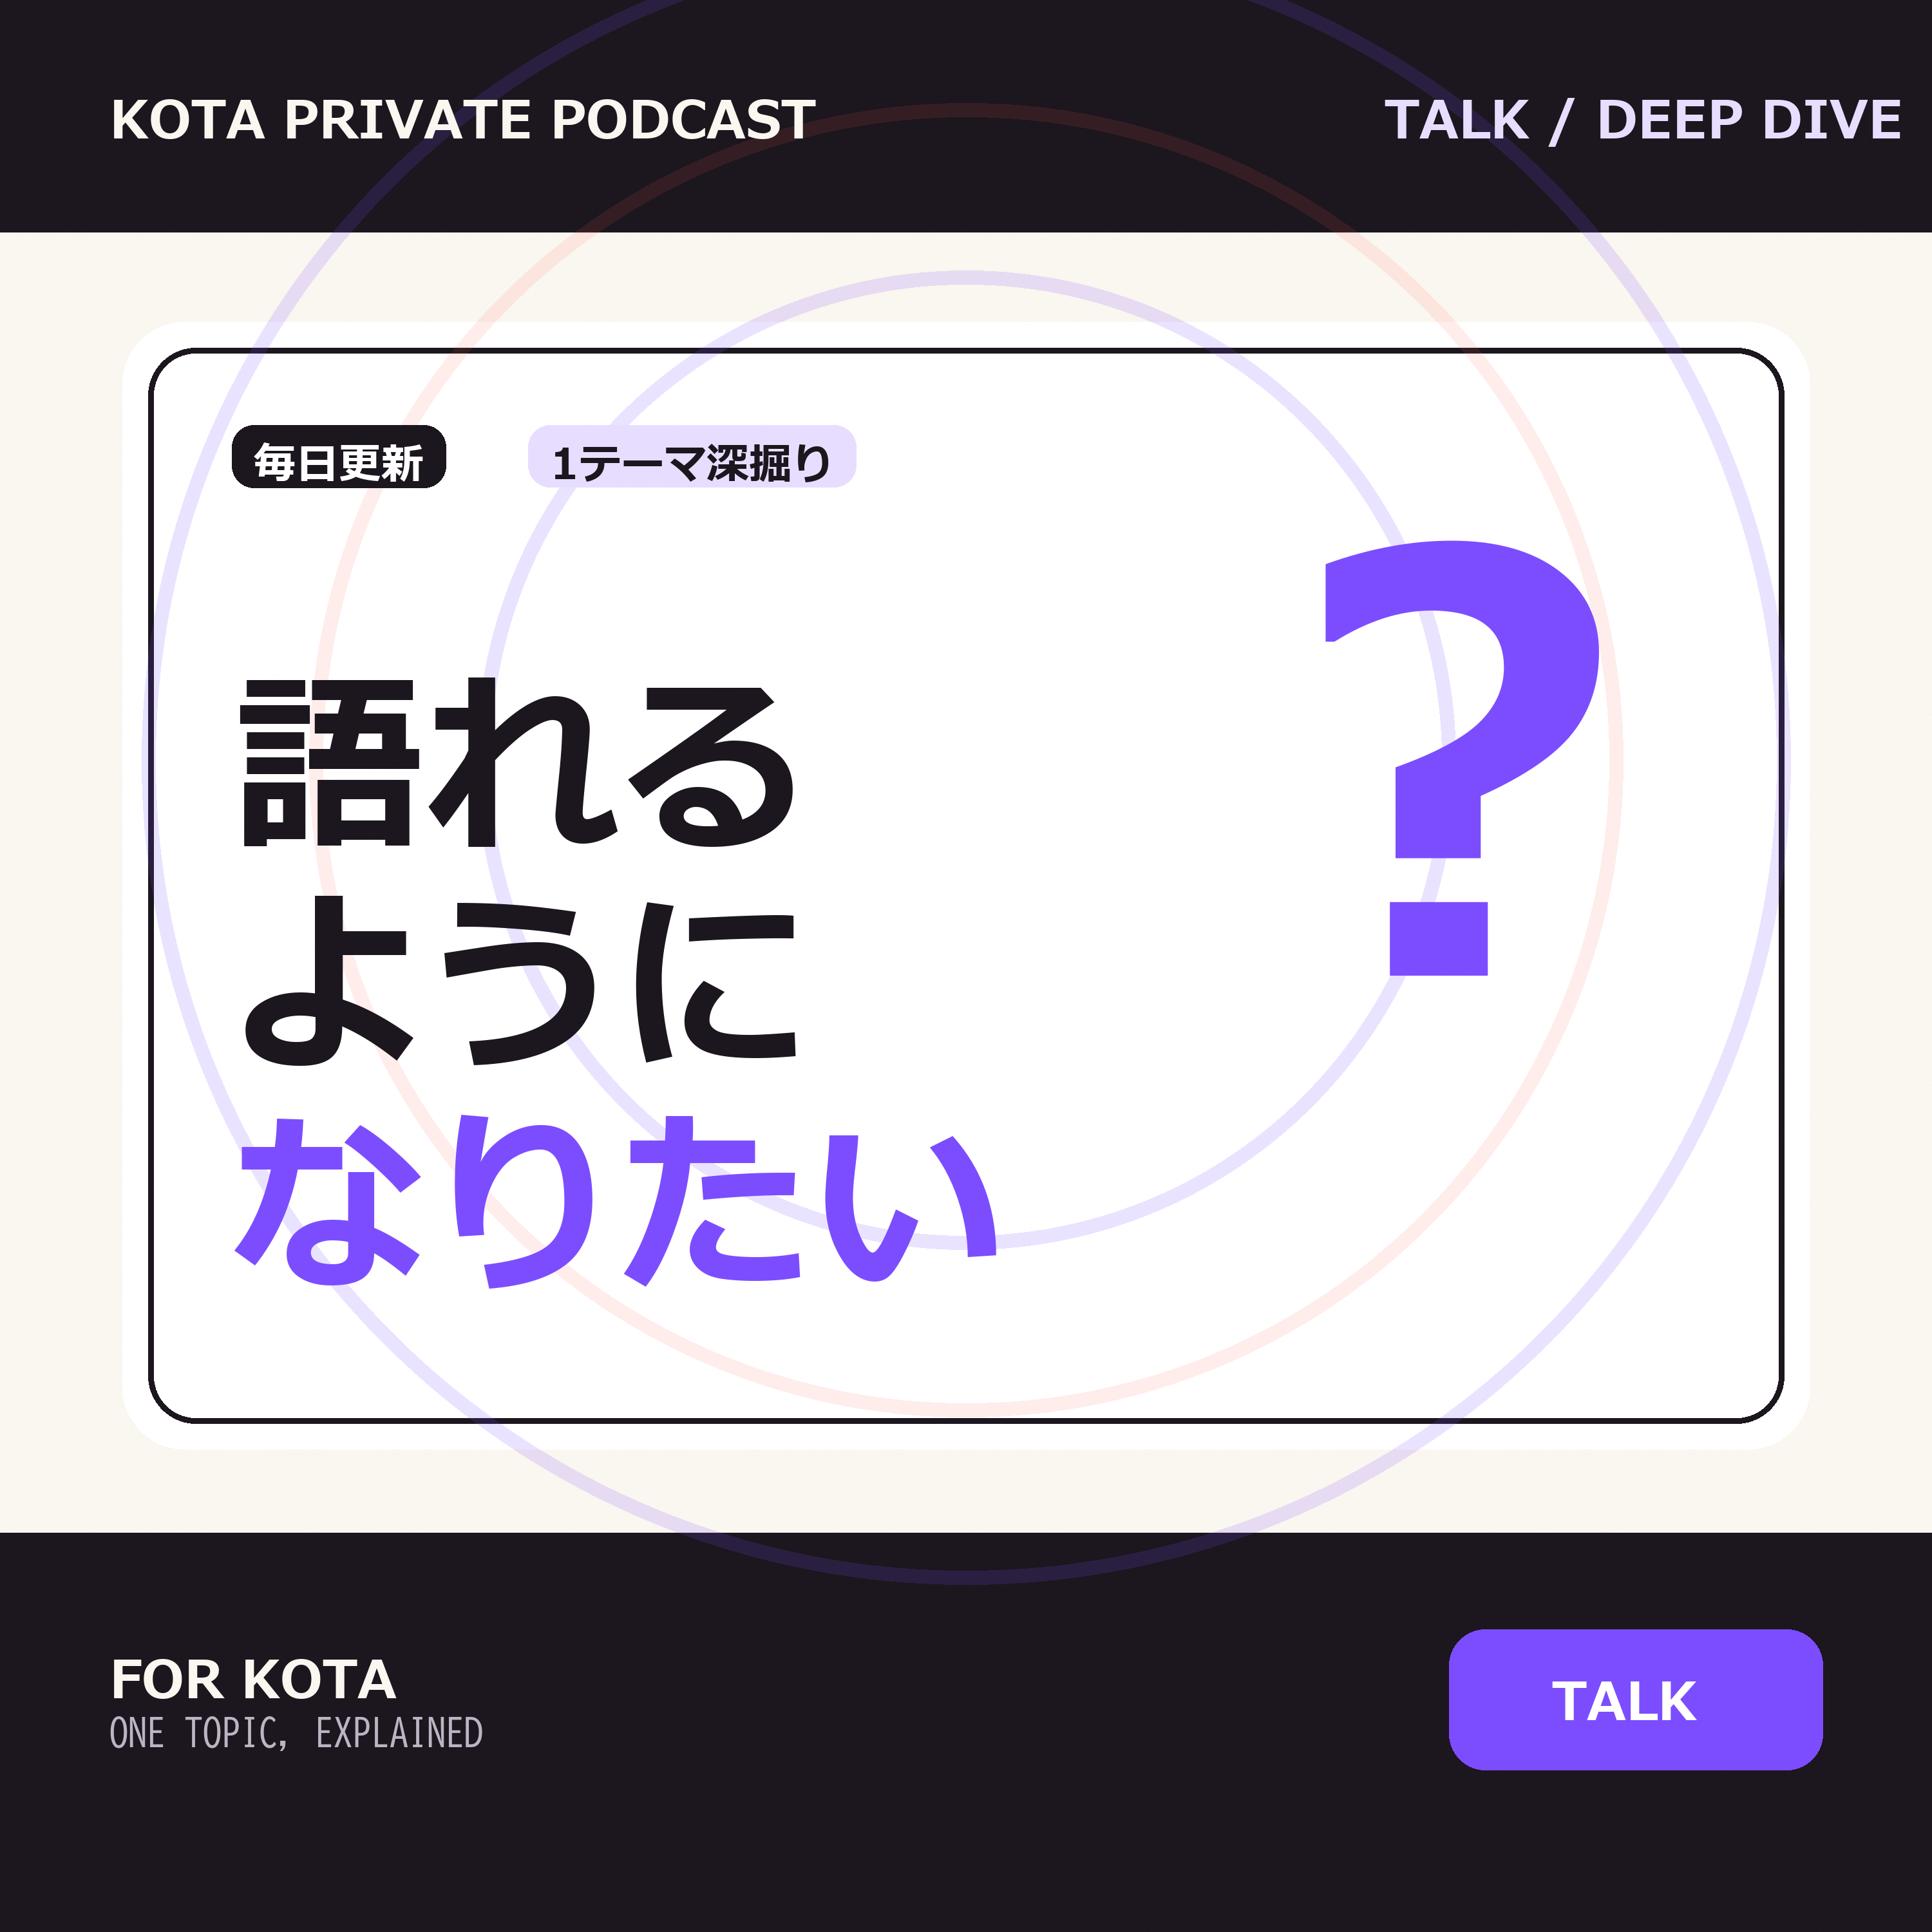
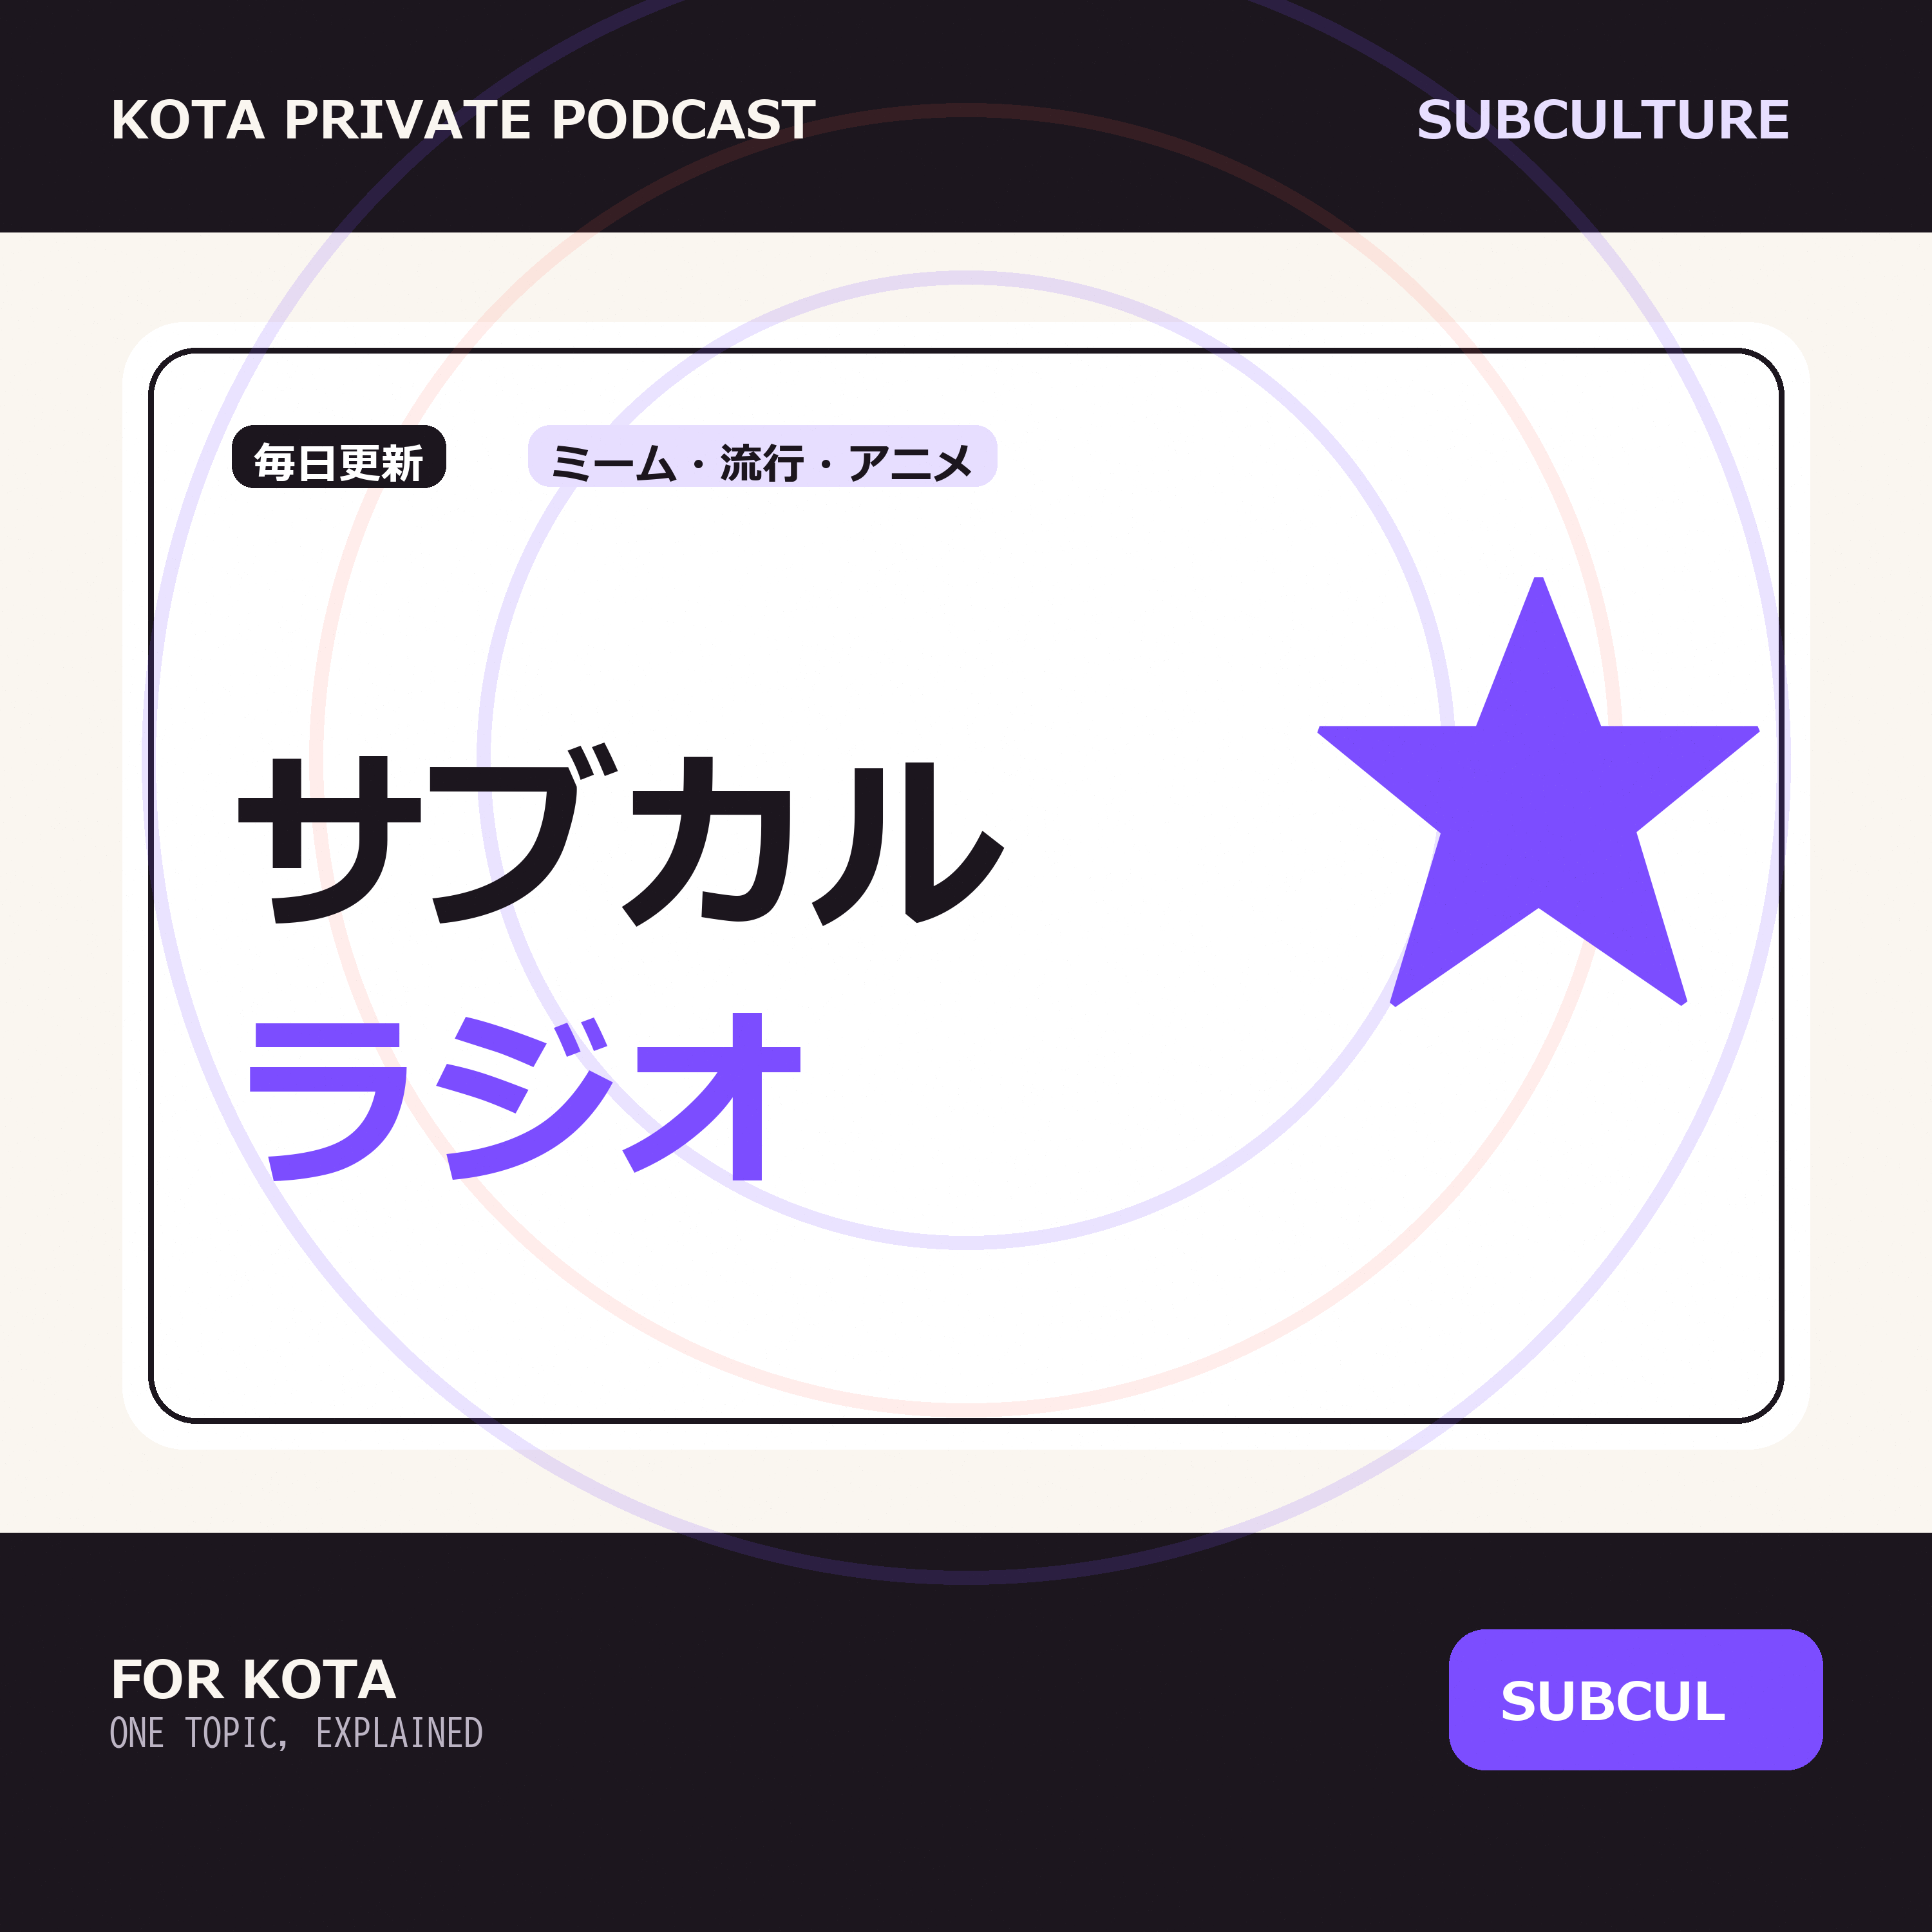
改名: 語れるラジオ→サブカルラジオ(カバー★)、鑑賞ふりかえり→鑑賞作品ラジオ。両カバー・ルーチン・publish.py設定更新、今日の回(ペンギンミーム/ヴァイオレット)を新名で再配信

diff --git a/scripts/make_cover.py b/scripts/make_cover.py
@@ -178,22 +178,21 @@ def make_katareru_cover():
     f_mono = load_font(58, bold=False)
 
     d.text((170, 128), "KOTA PRIVATE PODCAST", font=f_label, fill=(250, 246, 240, 255))
-    d.text((2150, 128), "TALK / DEEP DIVE", font=f_label, fill=pale_purple)
+    d.text((2200, 128), "SUBCULTURE", font=f_label, fill=pale_purple)
 
-    # 巨大な「?」を右上に
-    d.text((2000, 560), "?", font=f_q, fill=(124, 77, 255, 90))
+    # 巨大な「★」を右上に（サブカル＝ポップな星モチーフ。旧「?」は語れる時代の名残で違和感ありと kota 指摘 2026-06-19）
+    d.text((1940, 600), "★", font=f_q, fill=(124, 77, 255, 90))
 
     draw_tag(d, (360, 660), "毎日更新", f_tag, ink, (255, 255, 255, 255))
-    draw_tag(d, (820, 660), "1テーマ深掘り", f_tag, pale_purple, ink)
+    draw_tag(d, (820, 660), "ミーム・流行・アニメ", f_tag, pale_purple, ink)
 
-    d.text((360, 980), "語れる", font=f_title, fill=ink)
-    d.text((360, 1320), "ように", font=f_title, fill=ink)
-    d.text((360, 1660), "なりたい", font=f_title, fill=purple)
+    d.text((360, 1100), "サブカル", font=f_title, fill=ink)
+    d.text((360, 1500), "ラジオ", font=f_title, fill=purple)
 
     d.text((170, 2550), "FOR KOTA", font=f_label, fill=(250, 246, 240, 255))
     d.text((170, 2660), "ONE TOPIC, EXPLAINED", font=f_mono, fill=(188, 180, 196, 255))
     d.rounded_rectangle([2250, 2530, 2830, 2748], radius=56, fill=purple)
-    d.text((2410, 2584), "TALK", font=f_label, fill=(255, 255, 255, 255))
+    d.text((2330, 2584), "SUBCUL", font=f_label, fill=(255, 255, 255, 255))
 
     img = add_noise(img)
     img = img.convert("RGB")
@@ -211,8 +210,8 @@ GENERIC_COVERS = {
                  ["ビジネス", "ラジオ", ""], "企業と商品", "BUSINESS", "ONE TOPIC A DAY"),
     "chiri": ("chiri-cover.png", (34, 168, 120), "地",
               ["地理", "ラジオ", ""], "街と世界", "GEOGRAPHY", "PLACES & COUNTRIES"),
-    "kanshou": ("kanshou-cover.png", (228, 72, 140), "観",
-                ["鑑賞", "ふり", "かえり"], "Notion連動", "REVIEW", "FROM YOUR LOG"),
+    "kanshou": ("kanshou-cover.png", (228, 72, 140), "鑑",
+                ["鑑賞", "作品", "ラジオ"], "本・映画・アニメ", "REVIEW", "FROM YOUR LOG"),
     "fukushi": ("fukushi-cover.png", (40, 140, 220), "福",
                 ["福祉", "ラジオ", ""], "落穂会支援", "WELFARE", "STUDY TRACK"),
 }

diff --git a/scripts/publish.py b/scripts/publish.py
@@ -46,10 +46,10 @@ SHOWS = {
         "meta": "_meta_katareru.json",
         "cover": "katareru-cover.png",
         "hour": 6,
-        "channel_title": "kota 語れるラジオ",
-        "channel_desc": "毎日1本、いま話題だけど実はよく知らない単語・人物・現象を1つ選び、他人に語れるレベルまで深掘りして解説する、kota専用の音声番組。",
+        "channel_title": "kota サブカルラジオ",
+        "channel_desc": "毎日1本、ネットのミーム・流行・アニメ・ゲーム・キャラなど、いま話題のサブカルチャーを1つ選び、他人に語れるレベルまで深掘りして解説する、kota専用の音声番組。",
         "category": "Society & Culture",
-        "default_title": "「{date}のテーマ」について語れるようになりたい",
+        "default_title": "サブカルラジオ（{date}）",
     },
     "lifehack": {
         "ep_subdir": "lifehack/episodes",
@@ -94,10 +94,10 @@ SHOWS = {
         "meta": "_meta_kanshou.json",
         "cover": "kanshou-cover.png",
         "hour": 8,
-        "channel_title": "kota 鑑賞ふりかえりラジオ",
-        "channel_desc": "毎日1本、kota がNotionに記録した鑑賞作品（本・映画・ドラマ・音楽ほか）を1つ取り上げ、背景や見どころを語れるレベルまで深掘りする、kota専用の音声番組。",
+        "channel_title": "kota 鑑賞作品ラジオ",
+        "channel_desc": "毎日1本、kota がNotionに記録した鑑賞作品（本・映画・ドラマ・アニメ・音楽ほか）を1つ取り上げ、背景や見どころを語れるレベルまで深掘りする、kota専用の音声番組。",
         "category": "Arts",
-        "default_title": "鑑賞ふりかえり（{date}）",
+        "default_title": "鑑賞作品ラジオ（{date}）",
     },
     "fukushi": {
         "ep_subdir": "fukushi/episodes",

diff --git a/KATARERU_ROUTINE.md b/KATARERU_ROUTINE.md
@@ -1,7 +1,8 @@
-# 語れるラジオ — 毎日の生成ルーチン
+# サブカルラジオ — 毎日の生成ルーチン
 
-> このファイルは毎朝（5:15頃。全番組を6時までに仕上げる方針）の scheduled-task（`katareru-radio`）が読んで **そのまま実行する** 手順書。
-> 目的：いま話題だけど「実はよくわからない」単語・人物・現象を **1つ** 選び、他人に語れるレベルまで深掘りして、約6〜8分の音声（mp3）にして Podcast 配信する。
+> このファイルは毎朝（5:10頃。全番組を6時までに仕上げる方針）の scheduled-task（`katareru-radio`）が読んで **そのまま実行する** 手順書。SHOW=katareru（旧「語れるラジオ」。2026-06-19 に kota 指示で「サブカルラジオ」へ改名。フィードIDは購読維持のため katareru のまま）。
+> 目的：いま話題の **サブカルチャー**（ネットのミーム・流行・アニメ・漫画・ゲーム・VTuber・キャラ・ネット文化・新しい商品やブームなど）を **1つ** 選び、他人に語れるレベルまで深掘りして、約9〜11分の音声（mp3）にして Podcast 配信する。
+> ※扱うのは**サブカル寄りの話題**に絞る（経済概念・国際情勢・お堅いビジネス用語などは扱わない。それらはビジネスラジオの領分）。「名前は聞くけど中身を説明できる人が少ない」サブカル現象が主役。
 > 作業ディレクトリ：`C:\Users\kota\Documents\Claude\kota-news-podcast`
 > 番組ID：`katareru`（朝の深掘りニュースとは **別フィード**。配信フィードはリポジトリ直下 `katareru.xml`。音声は `katareru/episodes/`）
 
@@ -25,12 +26,12 @@
 
 WebSearch を複数本投げ、「**話題には上がってるけど、実はよくわからない単語・人物・現象**」の候補を10〜15個リストアップする。例：「もっちゅりん」のような、SNS・ニュース・街中で見聞きするが中身を説明できる人が少ないもの。
 
-カバーする領域（ジャンルは絞らない）：
-- SNS・ネットでバズってる単語／ミーム／キャラ／VTuber／コンテンツ
-- 日本のエンタメ・カルチャー（音楽・映画・お笑い・アニメ・ゲーム）
-- テック・AI の新語・サービス・人物
-- 経済・金融・国際情勢で「名前は聞くが説明できない」概念
-- 社会現象・流行・新しい商品やブランド
+カバーする領域（**サブカル寄りに絞る**）：
+- SNS・ネットでバズってる単語／ミーム／キャラ／VTuber／配信者／コンテンツ
+- 日本のエンタメ・カルチャー（アニメ・漫画・ゲーム・音楽・映画・お笑い・特撮・アイドル）
+- ネット文化・スラング・流行りの遊び・バズった現象
+- 新しい商品・ブーム・サブカル的な流行（食・グッズ・キャラビジネス等）
+- ※テック/AIの専門用語・経済/金融/国際情勢などお堅い概念は扱わない（ビジネスラジオの領分）。サブカルとして語れるものを優先。
 
 選定の必須条件（article_playbook より）：
 - **「話題には上がってる」が必須**。誰も話題にしてないマイナー単語は弾く（＝Wikipedia の領分）。
@@ -122,7 +123,7 @@ article_playbook §1 の構成テンプレを **音声向けに適応**する：
 ## STEP 7. テキスト整形＋読み正規化
 
 台本を1つのテキストにまとめる。冒頭・結びの定型：
-- オープニング：「こんにちは。語れるラジオ、今日のテーマは『○○』です。」
+- オープニング：「こんにちは。サブカルラジオ、今日のテーマは『○○』です。」
 - クロージング：「以上、今日の『○○』でした。これで明日、ちょっと語れますね。」
 
 読み正規化（ROUTINE.md STEP 7 と同じ規律）：

diff --git a/KANSHOU_ROUTINE.md b/KANSHOU_ROUTINE.md
@@ -1,7 +1,7 @@
-# 鑑賞ふりかえりラジオ — 番組差分ルーチン（SHOW=kanshou）
+# 鑑賞作品ラジオ — 番組差分ルーチン（SHOW=kanshou）
 
 > 制作の本体手順は **RADIO_BASE.md** に従う。このファイルは**作品の選定（情報源＝Notion鑑賞記録DB）**だけを定義する。
-> scheduled-task：`kanshou-radio`（毎朝4:30頃。全番組を6時までに仕上げる方針）。配信フィード：`kanshou.xml`。
+> scheduled-task：`kanshou-radio`（毎朝4:20頃。全番組を6時までに仕上げる方針）。配信フィード：`kanshou.xml`。2026-06-19 に kota 指示で「鑑賞ふりかえりラジオ」→「鑑賞作品ラジオ」へ改名（フィードIDは購読維持のため kanshou のまま）。
 
 ## この番組の狙い
 